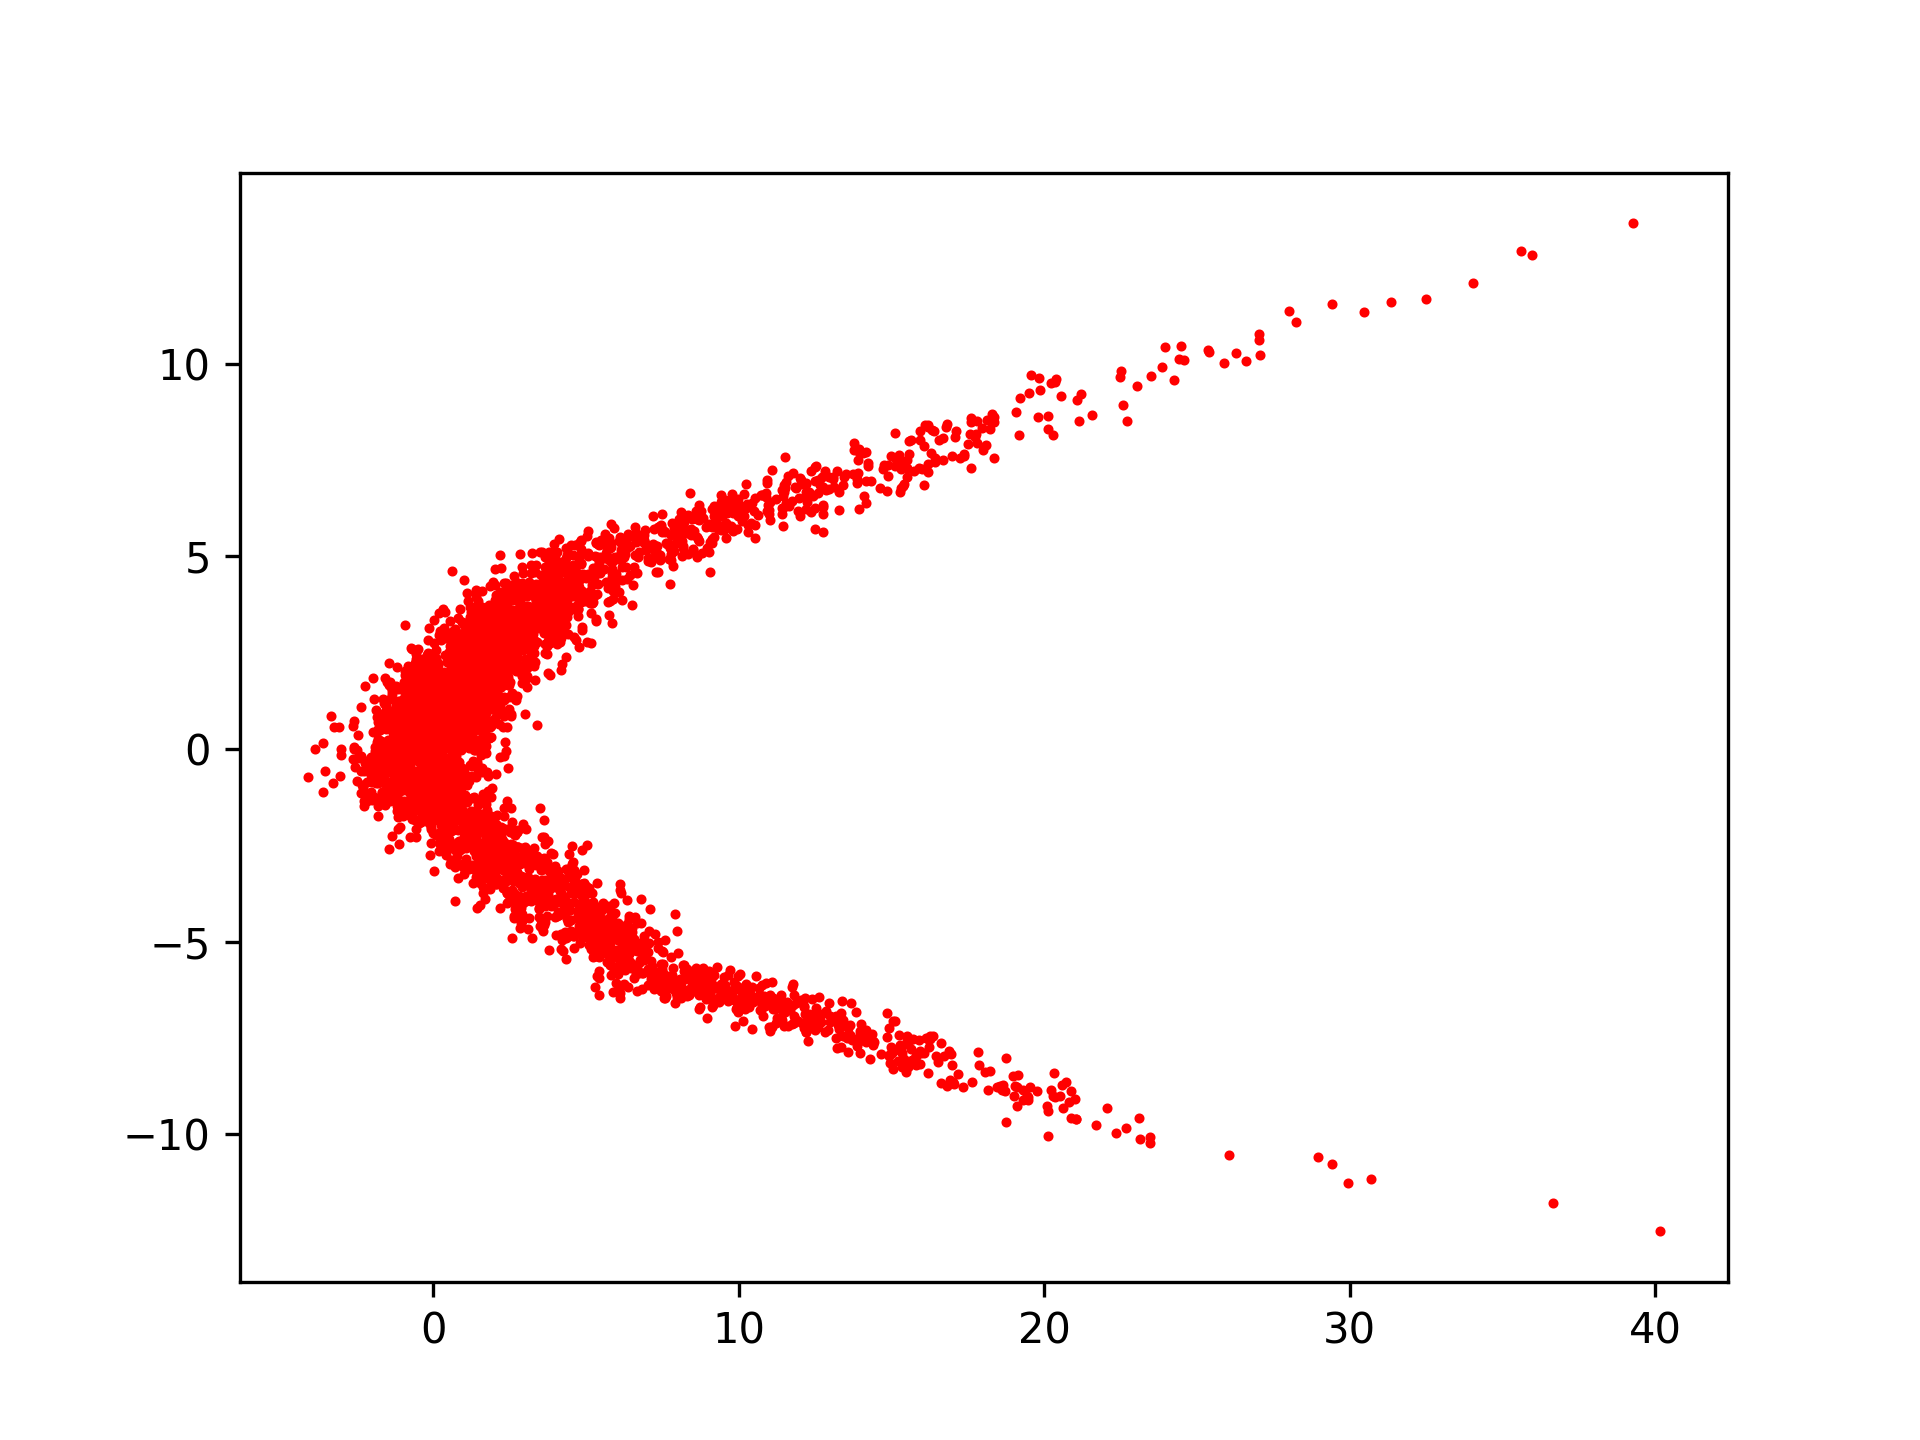
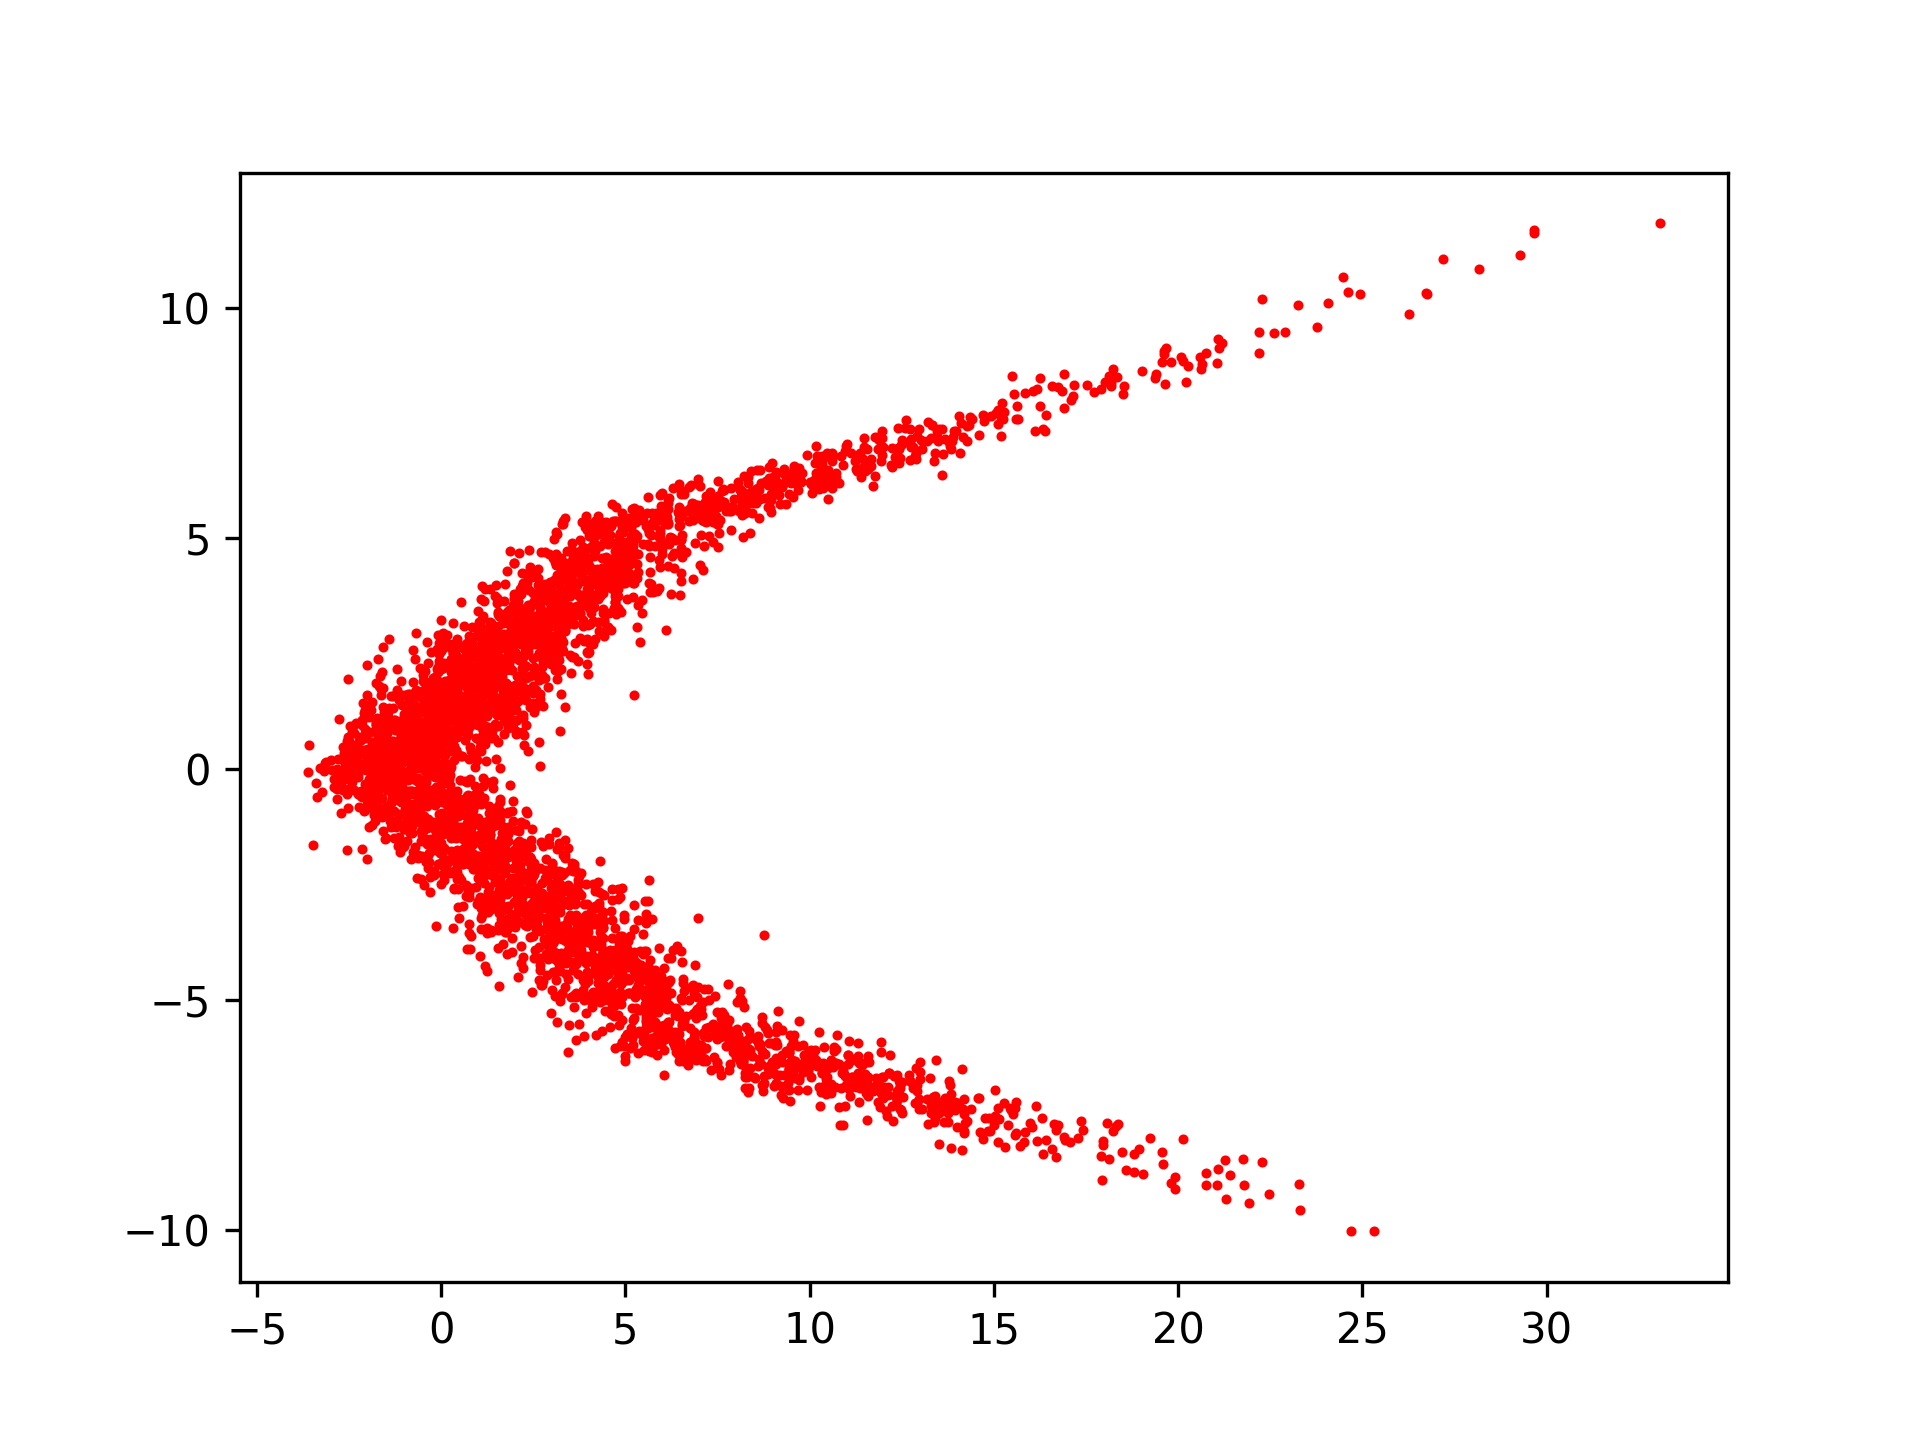
Kinda working (yay) time to implement the longer implementation eric jang 2

diff --git a/src/flows/naive_flow.py b/src/flows/naive_flow.py
@@ -44,7 +44,7 @@ if __name__ == "__main__":
 
     d, r = 2, 2
     bijectors = []
-    num_layers = 6
+    num_layers = 5 # Less layers, as this is a simple distribution
     for i in range(num_layers):
         with tf.variable_scope('bijector_%d' % i):
             V = tf.get_variable('V', [d, r], dtype=DTYPE)  # factor loading
@@ -93,12 +93,10 @@ if __name__ == "__main__":
         arr[i].scatter(X1[idx, 0], X1[idx, 1], s=10, color='blue')
         idx = np.logical_and(X0[:, 0] > 0, X0[:, 1] > 0)
         arr[i].scatter(X1[idx, 0], X1[idx, 1], s=10, color='black')
-        arr[i].set_xlim([-2, 2])
-        arr[i].set_ylim([-2, 2])
+        arr[i].set_xlim([-10, 10])
+        arr[i].set_ylim([-10, 10])
         arr[i].set_title(names[i])
 
-    plt.ylim([-10, 10])
-    plt.xlim([-10, 10])
     plt.show()
 
     loss = -tf.reduce_mean(dist.log_prob(x_samples))
@@ -134,12 +132,10 @@ if __name__ == "__main__":
         arr[i].scatter(X1[idx, 0], X1[idx, 1], s=10, color='blue')
         idx = np.logical_and(X0[:, 0] > 0, X0[:, 1] > 0)
         arr[i].scatter(X1[idx, 0], X1[idx, 1], s=10, color='black')
-        arr[i].set_xlim([-2, 2])
-        arr[i].set_ylim([-2, 2])
+        arr[i].set_xlim([-10, 10])
+        arr[i].set_ylim([-10, 10])
         arr[i].set_title(names[i])
 
-    plt.ylim([-10, 10])
-    plt.xlim([-10, 10])
     plt.savefig('toy2d_flow.png', dpi=300)
     plt.show()
 
@@ -147,8 +143,6 @@ if __name__ == "__main__":
 
     X1 = sess.run(dist.sample(4000))
     plt.scatter(X1[:, 0], X1[:, 1], color='red', s=2)
-    arr[i].set_xlim([-2.5, 2.5])
-    arr[i].set_ylim([-.5, .5])
     plt.savefig('toy2d_out.png', dpi=300)
     plt.show()
 
